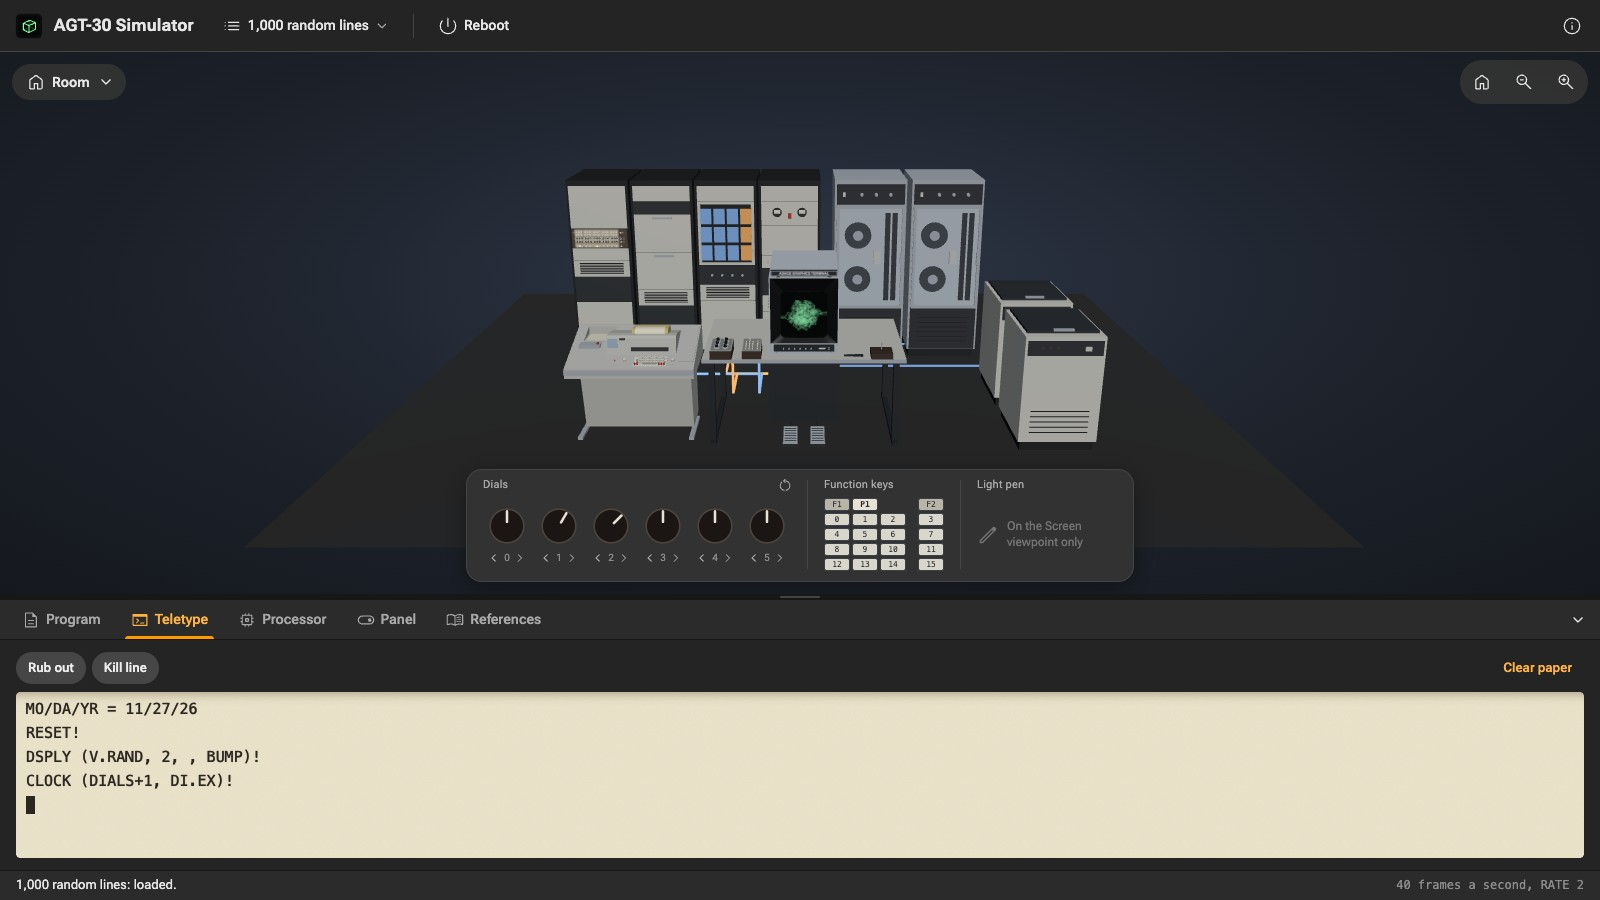
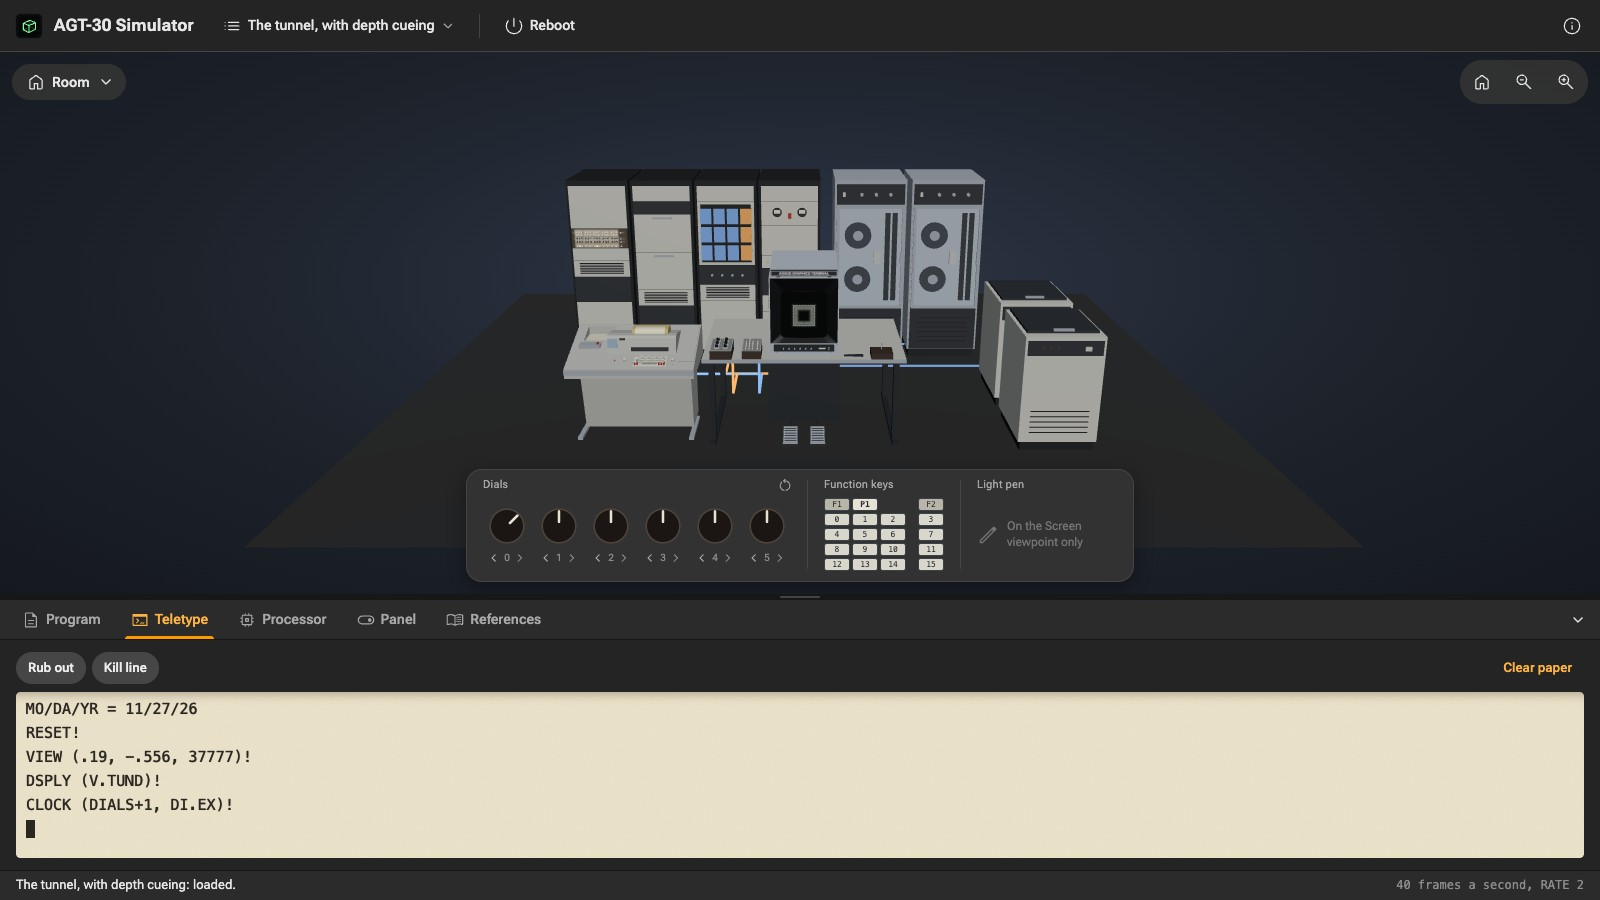
The phosphor is P7-like by default (R14): a cool white flash (tau 0.1 ms) and a yellow-green afterglow (tau 150 ms) kept in a fading layer, after M. Howard's memory of NCSU's scope; the green P31-like phosphor stays as ?phosphor=p31. README, R14, the overview and the About text say so; the README's 

diff --git a/js/view/crt.js b/js/view/crt.js
@@ -5,11 +5,16 @@
 // resolution Screen viewpoint and the 3D scope face's texture, and finds where the light pen
 // points.
 
-import { gainFor, light, PHOSPHORS } from "./phosphor.js";
+import { gainFor, glowDeposit, light, PHOSPHORS } from "./phosphor.js";
 import { rgbOf, token } from "./theme.js";
 
 /** @typedef {import("../sim/dsply.js").Seg} Seg */
 /** @typedef {import("./phosphor.js").Phosphor} Phosphor */
+
+/** The afterglow's layer holds its light this many times over and is shown at a third: with
+ * fading in steps to 0.75, a pixel that rounding keeps from fading (1 of 255) shows as nothing. */
+const GLOW_SCALE = 3;
+const GLOW_STEP = 0.75;
 
 /** Inches of the visible face (12 in square). */
 const FACE_IN = 12;
@@ -33,6 +38,15 @@ export class CrtView {
     this.gain = 1;
     /** The phosphor's color. */
     this.color = "#7dff9b";
+    /** The afterglow's layer (phosphor.js), its time, and the fading owed to it. */
+    /** @type {OffscreenCanvas | null} */
+    this.glow = null;
+    /** @type {number | null} the simulated time the layer shows, null when empty */
+    this.glowAt = null;
+    /** The layer holds its light divided by this; it is faded only when this falls to
+     * GLOW_STEP, so that 8-bit pixels are not rounded at every repaint. */
+    this.glowFade = 1;
+    this.glowColor = "#b6e35a";
     this.setPhosphor(PHOSPHORS[0]);
   }
 
@@ -40,7 +54,9 @@ export class CrtView {
   setPhosphor(p) {
     this.phosphor = p;
     this.gain = gainFor(p);
-    this.color = token(p.color, "#7dff9b");
+    this.color = token(p.color, "#e6eeff");
+    if (p.glow) this.glowColor = token(p.glow.color, "#b6e35a");
+    this.glowAt = null;
   }
 
   /** Blanks the face: nothing lit (a surface left keeps no stale picture). */
@@ -49,6 +65,75 @@ export class CrtView {
     this.ctx.globalAlpha = 1;
     this.ctx.fillStyle = token("--crt-face", "#050806");
     this.ctx.fillRect(0, 0, this.canvas.width, this.canvas.height);
+    this.glowAt = null;
+  }
+
+  /**
+   * Brings the afterglow's layer to a time: what it held fades, the strokes ended since leave
+   * their glow (phosphor.js).
+   * @param {Seg[]} segs
+   * @param {number} now
+   * @param {number} k pixels an inch
+   * @param {number} spot the spot's width, pixels
+   * @returns {OffscreenCanvas | null} the layer, or null for a phosphor without one
+   */
+  afterglow(segs, now, k, spot) {
+    const g = this.phosphor.glow;
+    if (!g) return null;
+    const S = this.canvas.width;
+    if (!this.glow || this.glow.width !== S) {
+      this.glow = new OffscreenCanvas(S, S);
+      this.glowAt = null;
+    }
+    const gx = /** @type {OffscreenCanvasRenderingContext2D} */ (this.glow.getContext("2d"));
+    const tau = g.tauUs;
+    let since = this.glowAt;
+    if (since === null || now < since || now - since > 8 * tau) {
+      gx.globalCompositeOperation = "source-over";
+      gx.clearRect(0, 0, S, S);
+      this.glowFade = 1;
+      since = now - 8 * tau;
+    } else {
+      this.glowFade *= Math.exp(-(now - since) / tau);
+      if (this.glowFade <= GLOW_STEP) {
+        gx.globalCompositeOperation = "destination-out";
+        gx.globalAlpha = 1;
+        gx.fillStyle = `rgba(0,0,0,${1 - this.glowFade})`;
+        gx.fillRect(0, 0, S, S);
+        this.glowFade = 1;
+      }
+    }
+    this.glowAt = now;
+    const LEVELS = 24;
+    const paths = Array.from({ length: LEVELS }, () => new Path2D());
+    const counts = new Array(LEVELS).fill(0);
+    const d = (GLOW_SCALE * glowDeposit(g)) / this.glowFade;
+    for (let n = segs.length - 1; n >= 0; n--) {
+      const s = segs[n];
+      if (s.t1 <= since) break;
+      if (s.t1 > now || !s.vis) continue;
+      const a = Math.min(1, d * Math.exp(-(now - s.t1) / tau) * Math.max(s.i0, s.i1));
+      if (a < 0.004) continue;
+      const lvl = Math.min(LEVELS - 1, Math.floor(Math.sqrt(a) * LEVELS));
+      const x0 = S / 2 + s.x0 * k;
+      const y0 = S / 2 - s.y0 * k;
+      const x1 = S / 2 + s.x1 * k;
+      const y1 = S / 2 - s.y1 * k;
+      paths[lvl].moveTo(x0, y0);
+      paths[lvl].lineTo(x1 + (x1 === x0 && y1 === y0 ? 0.01 : 0), y1);
+      counts[lvl]++;
+    }
+    gx.globalCompositeOperation = "lighter";
+    gx.strokeStyle = this.glowColor;
+    gx.lineCap = "round";
+    gx.lineWidth = spot * 1.8;
+    for (let lvl = 0; lvl < LEVELS; lvl++) {
+      if (!counts[lvl]) continue;
+      gx.globalAlpha = ((lvl + 0.5) / LEVELS) ** 2;
+      gx.stroke(paths[lvl]);
+    }
+    gx.globalAlpha = 1;
+    return this.glow;
   }
 
   /** Matches the canvas's pixels to its size on screen. */
@@ -84,6 +169,15 @@ export class CrtView {
     ctx.globalAlpha = 1;
     ctx.fillStyle = token("--crt-face", "#050806");
     ctx.fillRect(0, 0, S, S);
+    const spot = Math.max(1.1, 0.02 * k);
+    const glow = this.afterglow(segs, now, k, spot);
+    if (glow) {
+      ctx.globalCompositeOperation = "lighter";
+      ctx.globalAlpha = this.glowFade / GLOW_SCALE;
+      ctx.drawImage(glow, 0, 0);
+      ctx.globalCompositeOperation = "source-over";
+      ctx.globalAlpha = 1;
+    }
     const LEVELS = 24;
     /** @type {Path2D[]} */
     const paths = Array.from({ length: LEVELS }, () => new Path2D());
@@ -133,7 +227,6 @@ export class CrtView {
     }
     ctx.globalCompositeOperation = "lighter";
     ctx.lineCap = "round";
-    const spot = Math.max(1.1, 0.02 * k);
     for (let lvl = 0; lvl < LEVELS; lvl++) {
       if (!counts[lvl]) continue;
       const a = ((lvl + 0.5) / LEVELS) ** 2;

diff --git a/js/view/phosphor.js b/js/view/phosphor.js
@@ -16,26 +16,48 @@
 // repaint; a picture refreshed more slowly (20 a second) is caught between frames by some
 // repaints, and flickers, as it did. In slowed time W is the eye's 33 ms, slowed: the face then
 // shows the beam drawing, its trail fading with the phosphor.
+//
+// A P7-like phosphor, the default (R14), has two parts: a cool white flash that fades as above,
+// and a yellow-green afterglow that lasts a large part of a second. The afterglow is not summed
+// stroke by stroke (a second of strokes, drawn again on every repaint, would be too many): each
+// stroke leaves its glow in a layer that fades by exp(-dt / tau) as time passes (crt.js). A
+// stroke refreshed every period P adds d each time and settles at d / (1 - exp(-P / tau)).
+
+/**
+ * @typedef {object} Afterglow
+ * @property {number} tauUs its decay time constant (simulated microseconds)
+ * @property {string} color the token of its color
+ * @property {number} level how bright it is under a steady 40-frames-a-second picture, relative
+ *   to the flash at full brightness
+ */
 
 /**
  * @typedef {object} Phosphor
- * @property {"p31" | "p4" | "p7"} id the ?phosphor= value (docs/development.md)
- * @property {number} tauUs decay time constant (simulated microseconds)
- * @property {string} color the token of its color
+ * @property {"p7" | "p31" | "p4"} id the ?phosphor= value (docs/development.md)
+ * @property {number} tauUs the flash's decay time constant (simulated microseconds)
+ * @property {string} color the token of the flash's color
+ * @property {Afterglow} [glow] a long afterglow of another color
  */
 
-/** The GDS1's phosphor is not documented: P31-like is ours (R14); P4 and P7 for comparison. */
+/**
+ * The GDS1's phosphor is not documented. P7-like, after M. Howard's memory of a cool white
+ * flash decaying towards green with a very long afterglow, is the default; its times are ours
+ * (R14). P31-like green (the default to 0.0.5) and P4-like white for comparison.
+ */
 export const PHOSPHORS = /** @type {Phosphor[]} */ ([
-  { id: "p31", tauUs: 1500, color: "--phosphor" },
+  { id: "p7", tauUs: 100, color: "--phosphor-p7", glow: { tauUs: 150000, color: "--phosphor-p7-glow", level: 0.3 } },
+  { id: "p31", tauUs: 1500, color: "--phosphor-p31" },
   { id: "p4", tauUs: 300, color: "--phosphor-p4" },
-  { id: "p7", tauUs: 60000, color: "--phosphor-p7" },
 ]);
 
 /** How long an eye sums light, us: a thirtieth of a second. */
 export const EYE_US = 1e6 / 30;
 
+/** The frame period the brightness is set for: a steady picture at 40 frames a second. */
+export const STEADY_US = 25000;
+
 /**
- * The phosphor for a ?phosphor= value; P31-like unless another is named.
+ * The phosphor for a ?phosphor= value; P7-like unless another is named.
  * @param {string | null | undefined} id
  * @returns {Phosphor}
  */
@@ -90,6 +112,13 @@ export function steadyLight(periodUs, phaseUs, tau, window) {
  * @returns {number}
  */
 export function gainFor(p) {
-  const period = 25000;
-  return 1.5 / steadyLight(period, 0, p.tauUs, eyeWindowUs(period, 1));
+  return 1.5 / steadyLight(STEADY_US, 0, p.tauUs, eyeWindowUs(STEADY_US, 1));
 }
+
+/**
+ * The glow a fresh stroke leaves, so that a steady 40-frames-a-second picture's afterglow
+ * settles at its level.
+ * @param {Afterglow} g
+ * @returns {number}
+ */
+export const glowDeposit = (g) => g.level * (1 - Math.exp(-STEADY_US / g.tauUs));

diff --git a/js/l10n/en.js b/js/l10n/en.js
@@ -361,7 +361,7 @@ export default {
   "recon.R11": "The pen-hit table's layout and PENHT's code are ours.",
   "recon.R12": "Dash mode draws about ten dashes an inch.",
   "recon.R13": "The tunnel's perspective routine is JavaScript, charged an estimated time.",
-  "recon.R14": "The phosphor: green and medium-short, P31-like; the GDS1's is not documented.",
+  "recon.R14": "The phosphor: P7-like, a cool white flash fading to a long yellow-green afterglow, as M. Howard remembers it; the times are ours, and the GDS1's phosphor is not documented.",
   "recon.R15": "Core at start holds the paper's pictures and the resident routines; 32K words, as NCSU's.",
   "recon.R16": "Sizes: the scope measured from photographs; the racks, tapes and disks estimated.",
   "recon.R17": "The Teletype is an ASR-35 at its documented size, shaped from photographs; the ASR-33 is kept as an option.",

diff --git a/css/theme.css b/css/theme.css
@@ -51,10 +51,13 @@
   --state-hover: 0.08;
   --state-press: 0.14;
 
-  /* the phosphors (R14): P31-like is the GDS1's assumed one; P4 and P7 by ?phosphor= */
-  --phosphor: #7dff9b;
+  /* the phosphors (R14): P7-like, a cool white flash and a yellow-green afterglow, is the
+     GDS1's assumed one; P31 and P4 by ?phosphor=. --phosphor is the default's, for the page */
+  --phosphor-p7: #e6eeff;
+  --phosphor-p7-glow: #b6e35a;
+  --phosphor-p31: #7dff9b;
   --phosphor-p4: #e8f0ff;
-  --phosphor-p7: #9fd4ff;
+  --phosphor: var(--phosphor-p7);
   --phosphor-core: #e8ffe9;
   --crt-face: #050806;
   --scope-bezel: #0b0c0e;

diff --git a/js/scene/viewer.js b/js/scene/viewer.js
@@ -200,7 +200,7 @@ export class TerminalView {
       f?.done();
     });
     // the Tube's beam: from the gun to the yoke, then bent to the spot; faint while blanked
-    const beamColor = token("--phosphor", "#7dff9b");
+    const beamColor = token("--phosphor", "#e6eeff");
     const unit = new THREE.CylinderGeometry(1, 1, 1, 10, 1, true);
     /** @param {number} opacity */
     const beamMat = (opacity) => new THREE.MeshBasicMaterial({ color: beamColor, transparent: true, opacity, depthWrite: false, blending: THREE.AdditiveBlending, toneMapped: false });

diff --git a/js/view/traces.js b/js/view/traces.js
@@ -55,7 +55,7 @@ export class TracesView {
     const lanes = [
       { key: "x", name: this.labels.x, color: token("--trace-x", "#9ecaff"), lo: -6, hi: 6 },
       { key: "y", name: this.labels.y, color: token("--trace-y", "#ffb86b"), lo: -6, hi: 6 },
-      { key: "z", name: this.labels.z, color: token("--phosphor", "#7dff9b"), lo: 0, hi: 1 },
+      { key: "z", name: this.labels.z, color: token("--phosphor", "#e6eeff"), lo: 0, hi: 1 },
     ];
     ctx.clearRect(0, 0, W, H);
     const compact = r.width < COMPACT || r.height < COMPACT_H;

diff --git a/docs/agt30-overview.md b/docs/agt30-overview.md
@@ -253,7 +253,7 @@ The array also has analog inputs of its own: the dials, the joystick and the tab
 
 AVG1 takes each transformed point as a voltage and drives the beam from where it is to there in a straight line, at nearly constant speed, bright for a DRAW and blanked for a MOVE. A vector takes 5 to 39 µs, 3 µs of it between vectors, growing with its longest component; a long move takes 15 µs (SRM5 AVG1 pp. 1–2). The analog space is 20 inches square, but one stroke's component is at most 10 inches, and the GDS1 scope shows a 12 × 12-inch square; lines beyond it are clamped. A short mode draws tiny vectors faster, at the cost of accuracy.
 
-The scope is a 21-inch CRT. Its phosphor is not documented (R14). M. Howard remembers it as P7 (or P30, as the recording of the call has it): a cool white flash that decays towards green, with a very long afterglow (MH26). A long afterglow helps a refreshed display flicker less, and smears a moving one. Text was hard to read beyond five or six lines at once, and the lab darkened the room to watch (MH26).
+The scope is a 21-inch CRT. Its phosphor is not documented (R14). M. Howard remembers it as P7 (or P30, as the recording of the call has it): a cool white flash that decays towards green, with a very long afterglow (MH26). A long afterglow helps a refreshed display flicker less, and smears a moving one. Text was hard to read beyond five or six lines at once, and the lab darkened the room to watch (MH26). The simulator draws it so, a white flash and a yellow-green afterglow, with times of our own (R14).
 
 Characters are drawn as vectors too, a few strokes each, in italics (MH26).
 
@@ -386,13 +386,13 @@ The simulator's own programs, in `programs/`, were written before the NCSU tapes
 | How a dial's input is chosen | GDD1's word is undocumented | R7 |
 | The Teletype's bit timing | the manual it refers to is missing | R9 |
 | How the simulator serves some interrupts, and PIPVT | not yet modeled; the address is undocumented | R10 |
-| The phosphor | undocumented; M. Howard's memory now gives a lead | R14 |
+| The phosphor | undocumented; modeled on M. Howard's memory of a P7-like white with a green afterglow | R14 |
 | The monitor | AMRMX's source is lost; a subset is written in JavaScript | R9, R15 |
 | The installation's sizes and shapes | photographs and the period's common sizes | R16–R18 |
 
 **Open questions** (and asked of M. Howard where marked; [../research/correspondence.md](../research/correspondence.md)):
 
-- the phosphor's color and afterglow (asked);
+- the phosphor's afterglow, how long and how bright (asked);
 - what timed the Teletype's bits (asked);
 - what destination 07 takes in its word (asked), and what destinations 05 and 06 carry besides x, y and z;
 - where PIPVT is (asked);

diff --git a/README.md b/README.md
@@ -8,11 +8,11 @@ The Adage Graphics Terminal, model 30 (1968), in your browser: a 30-bit processo
 
 **[▶ Try it online](https://wixette.github.io/agt30-simulator/)**: nothing to install. Made for a desktop browser (recent Chrome, Edge, Safari or Firefox), and it works on a phone too.
 
-![The Room: the AGT-30 installation in 3D, Fig. 12's random lines on the scope, the console's dials and function keys below it, and the session on the Teletype's paper](./images/readme/room.jpg)
+![The Room: the AGT-30 installation in 3D, a tunnel of squares on the scope, the console's dials and function keys below it, and the session on the Teletype's paper](./images/readme/room.jpg)
 
 <table>
 <tr>
-<td width="50%"><b>The Screen</b>: the picture close up, here 3-D tic-tac-toe in play, the marks placed with the light pen.<br><img src="./images/readme/screen.jpg" alt="The Screen viewpoint: the 3 x 3 x 3 tic-tac-toe board in green phosphor, two X's and two O's on its bottom layer, X's turn shown at the top left"></td>
+<td width="50%"><b>The Screen</b>: the picture close up, here 3-D tic-tac-toe in play, the marks placed with the light pen.<br><img src="./images/readme/screen.jpg" alt="The Screen viewpoint: the 3 x 3 x 3 tic-tac-toe board in the white phosphor, two X's and two O's on its bottom layer, X's turn shown at the top left"></td>
 <td width="50%"><b>The Tube</b>: the scope cut open, time slowed 100,000 times, the beam drawing the letter A, with its X, Y and Z signals below.<br><img src="./images/readme/tube.jpg" alt="The Tube viewpoint: the scope's cabinet cut away, the electron gun, the yoke and the beam reaching the face, where the letter A is being drawn; the deflection and intensity traces below; the live screen in the corner"></td>
 </tr>
 </table>
@@ -104,7 +104,7 @@ Much of the AGT is documented, but not all of it. Where the documents stop, the 
 - **R11.** The pen-hit table's layout and PENHT's code are ours.
 - **R12.** Dash mode draws about ten dashes an inch.
 - **R13.** The tunnel's perspective routine is JavaScript, charged an estimated time.
-- **R14.** The phosphor: green and medium-short, P31-like; the GDS1's is not documented.
+- **R14.** The phosphor: P7-like, a cool white flash fading to a long yellow-green afterglow, as M. Howard remembers it; the times are ours, and the GDS1's phosphor is not documented.
 - **R15.** Core at start holds the paper's pictures and the resident routines; 32K words, as NCSU's.
 - **R16.** Sizes: the scope measured from photographs; the racks, tapes and disks estimated.
 - **R17.** The Teletype is an ASR-35 at its documented size, shaped from photographs; the ASR-33 is kept as an option.

diff --git a/design/reconstructions.md b/design/reconstructions.md
@@ -97,9 +97,9 @@ Sources are cited by key ([../research/bibliography.md](../research/bibliography
 - *We:* TUNSUB, which recomputes the tunnel's perspective for the viewer's place every frame (the array cannot divide), is JavaScript, charged an estimated 30 µs a point.
 
 **R14. The phosphor.**
-- *Sources:* the GDS1's phosphor is not documented (SRM5 GDS1).
-- *We:* a green, medium-short, P31-like phosphor (τ = 1.5 ms), the usual choice for refreshed stroke displays. The face shows what an eye sums over about 33 ms, a whole number of frame periods when the picture refreshes at least that often. A P4-like or P7-like phosphor can be chosen with `?phosphor=` (a developer option; [../docs/development.md](../docs/development.md)).
-- *Settled by:* anyone who saw the scope lit.
+- *Sources:* the GDS1's phosphor is not documented (SRM5 GDS1). M. Howard remembers NCSU's as "P7 or P30": a cool white that decays towards green, with a very long afterglow; text was hard to read beyond five or six lines, and the room was darkened to watch it (MH26).
+- *We:* a P7-like phosphor in two parts. A cool white flash fades in τ = 0.1 ms; the face shows what an eye sums of it over about 33 ms, a whole number of frame periods when the picture refreshes at least that often. A yellow-green afterglow fades in τ = 150 ms, a third as bright as the flash under a steady picture, so a moving picture leaves a trail. The times and colors are ours. To 0.0.5 the default was a green, medium-short, P31-like phosphor (τ = 1.5 ms), the usual choice for refreshed stroke displays; it and a P4-like white can still be chosen with `?phosphor=` (a developer option; [../docs/development.md](../docs/development.md)).
+- *Settled by:* anyone who saw the scope lit; M. Howard's judgment of the two side by side (asked).
 
 **R15. Core at start.**
 - *We:*

diff --git a/CHANGELOG.md b/CHANGELOG.md
@@ -4,6 +4,7 @@ What changed in each release. Versions follow `package.json` and are tagged `vX.
 
 ## Unreleased
 
+- **The phosphor is white** (R14): a P7-like cool white flash with a long yellow-green afterglow, as M. Howard remembers NCSU's scope, in place of the P31-like green. Moving pictures leave a fading trail, and busy text is harder to read, as he recalls. The green is kept as `?phosphor=p31`.
 - The pack's download gives up a stalled try after 20 seconds and tries three times, so a link to LIFE or Space War no longer waits for ever at "Fetching…" on a slow line (U19).
 - LIFE's card no longer speaks of a zoom the Screen viewpoint does not have.
 - `pnpm game-shots` (tools/game-shots.mjs) takes pictures of the panel, LIFE with a glider gun and Space War, for posts and letters.

diff --git a/docs/development.md b/docs/development.md
@@ -20,7 +20,7 @@ Then open <http://localhost:8000/>. `pnpm serve` tells the browser not to cache,
 | Option | What it does |
 |---|---|
 | `?selftest` | Runs the page's acceptance checks and shows a tick or a cross for each; publishes `window.__selftest = { done, passed, failed }` |
-| `?phosphor=p31`, `p4` or `p7` | Uses that phosphor model (R14). `p31` is the default |
+| `?phosphor=p7`, `p31` or `p4` | Uses that phosphor model (R14). `p7` is the default; `p31` is the green default to 0.0.5 |
 | `?debug` | Exposes the machine to the console as `agt`, and the stage as `stage` |
 
 The link format of the page itself (`#view=`, `#program=`) is described in [ui-design.md](ui-design.md), U13. It is not frozen before 1.0.0.
